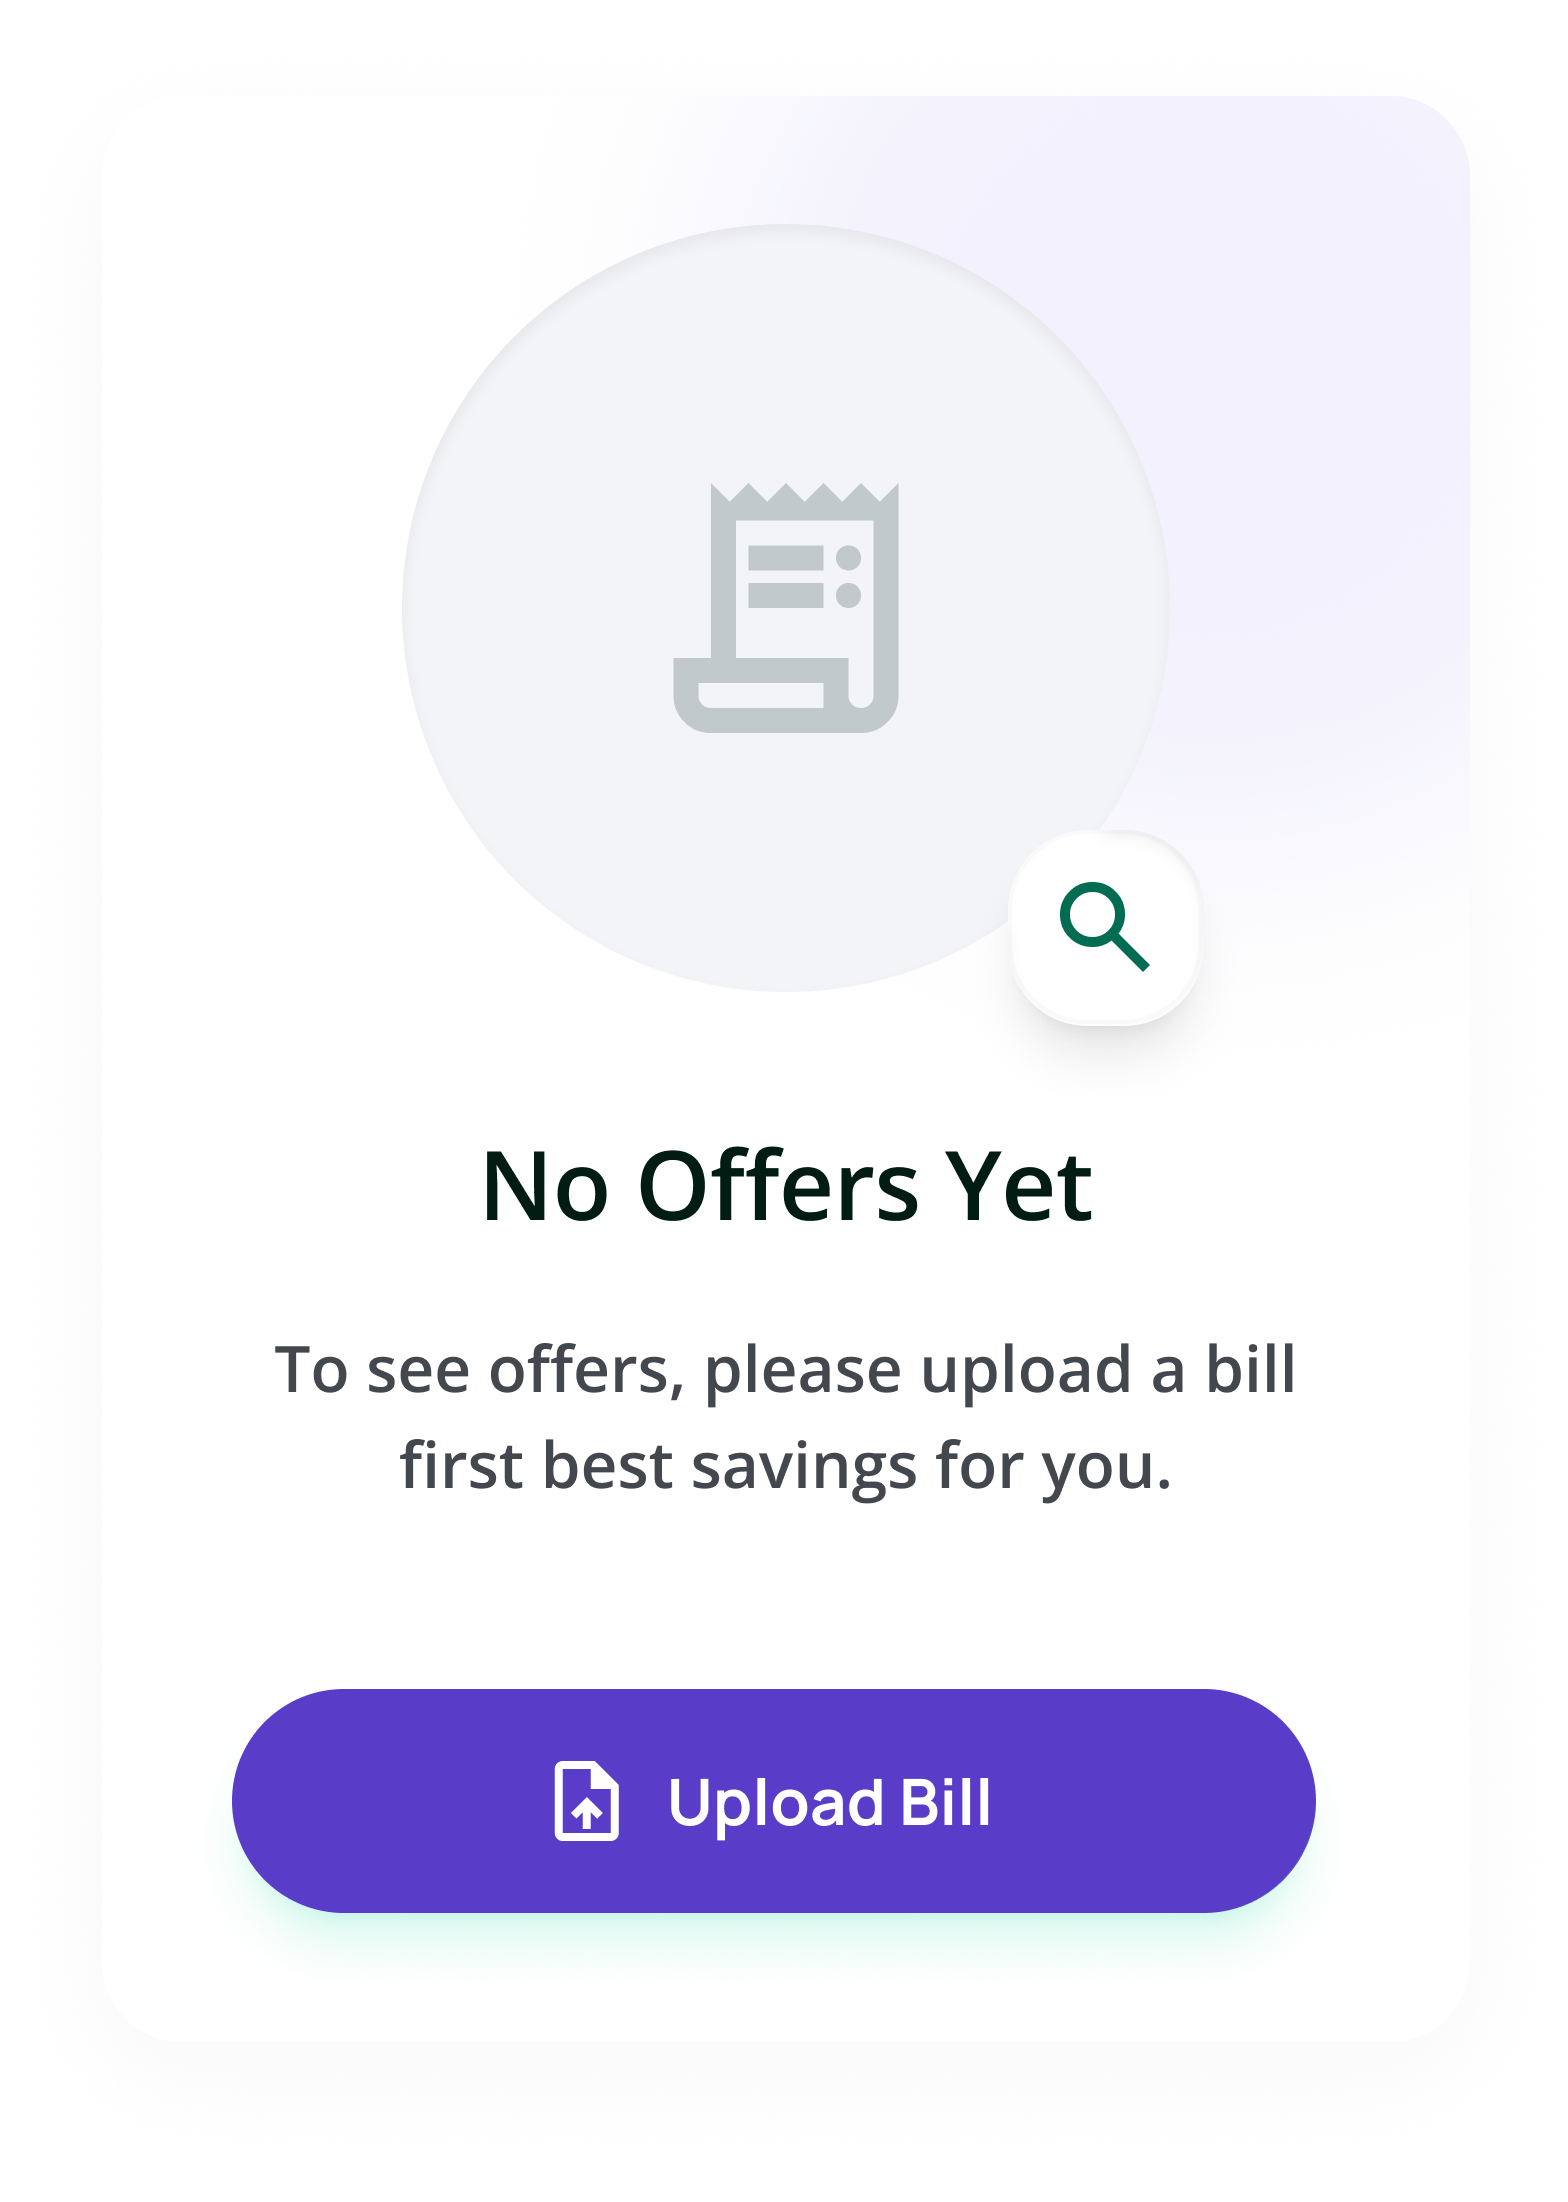
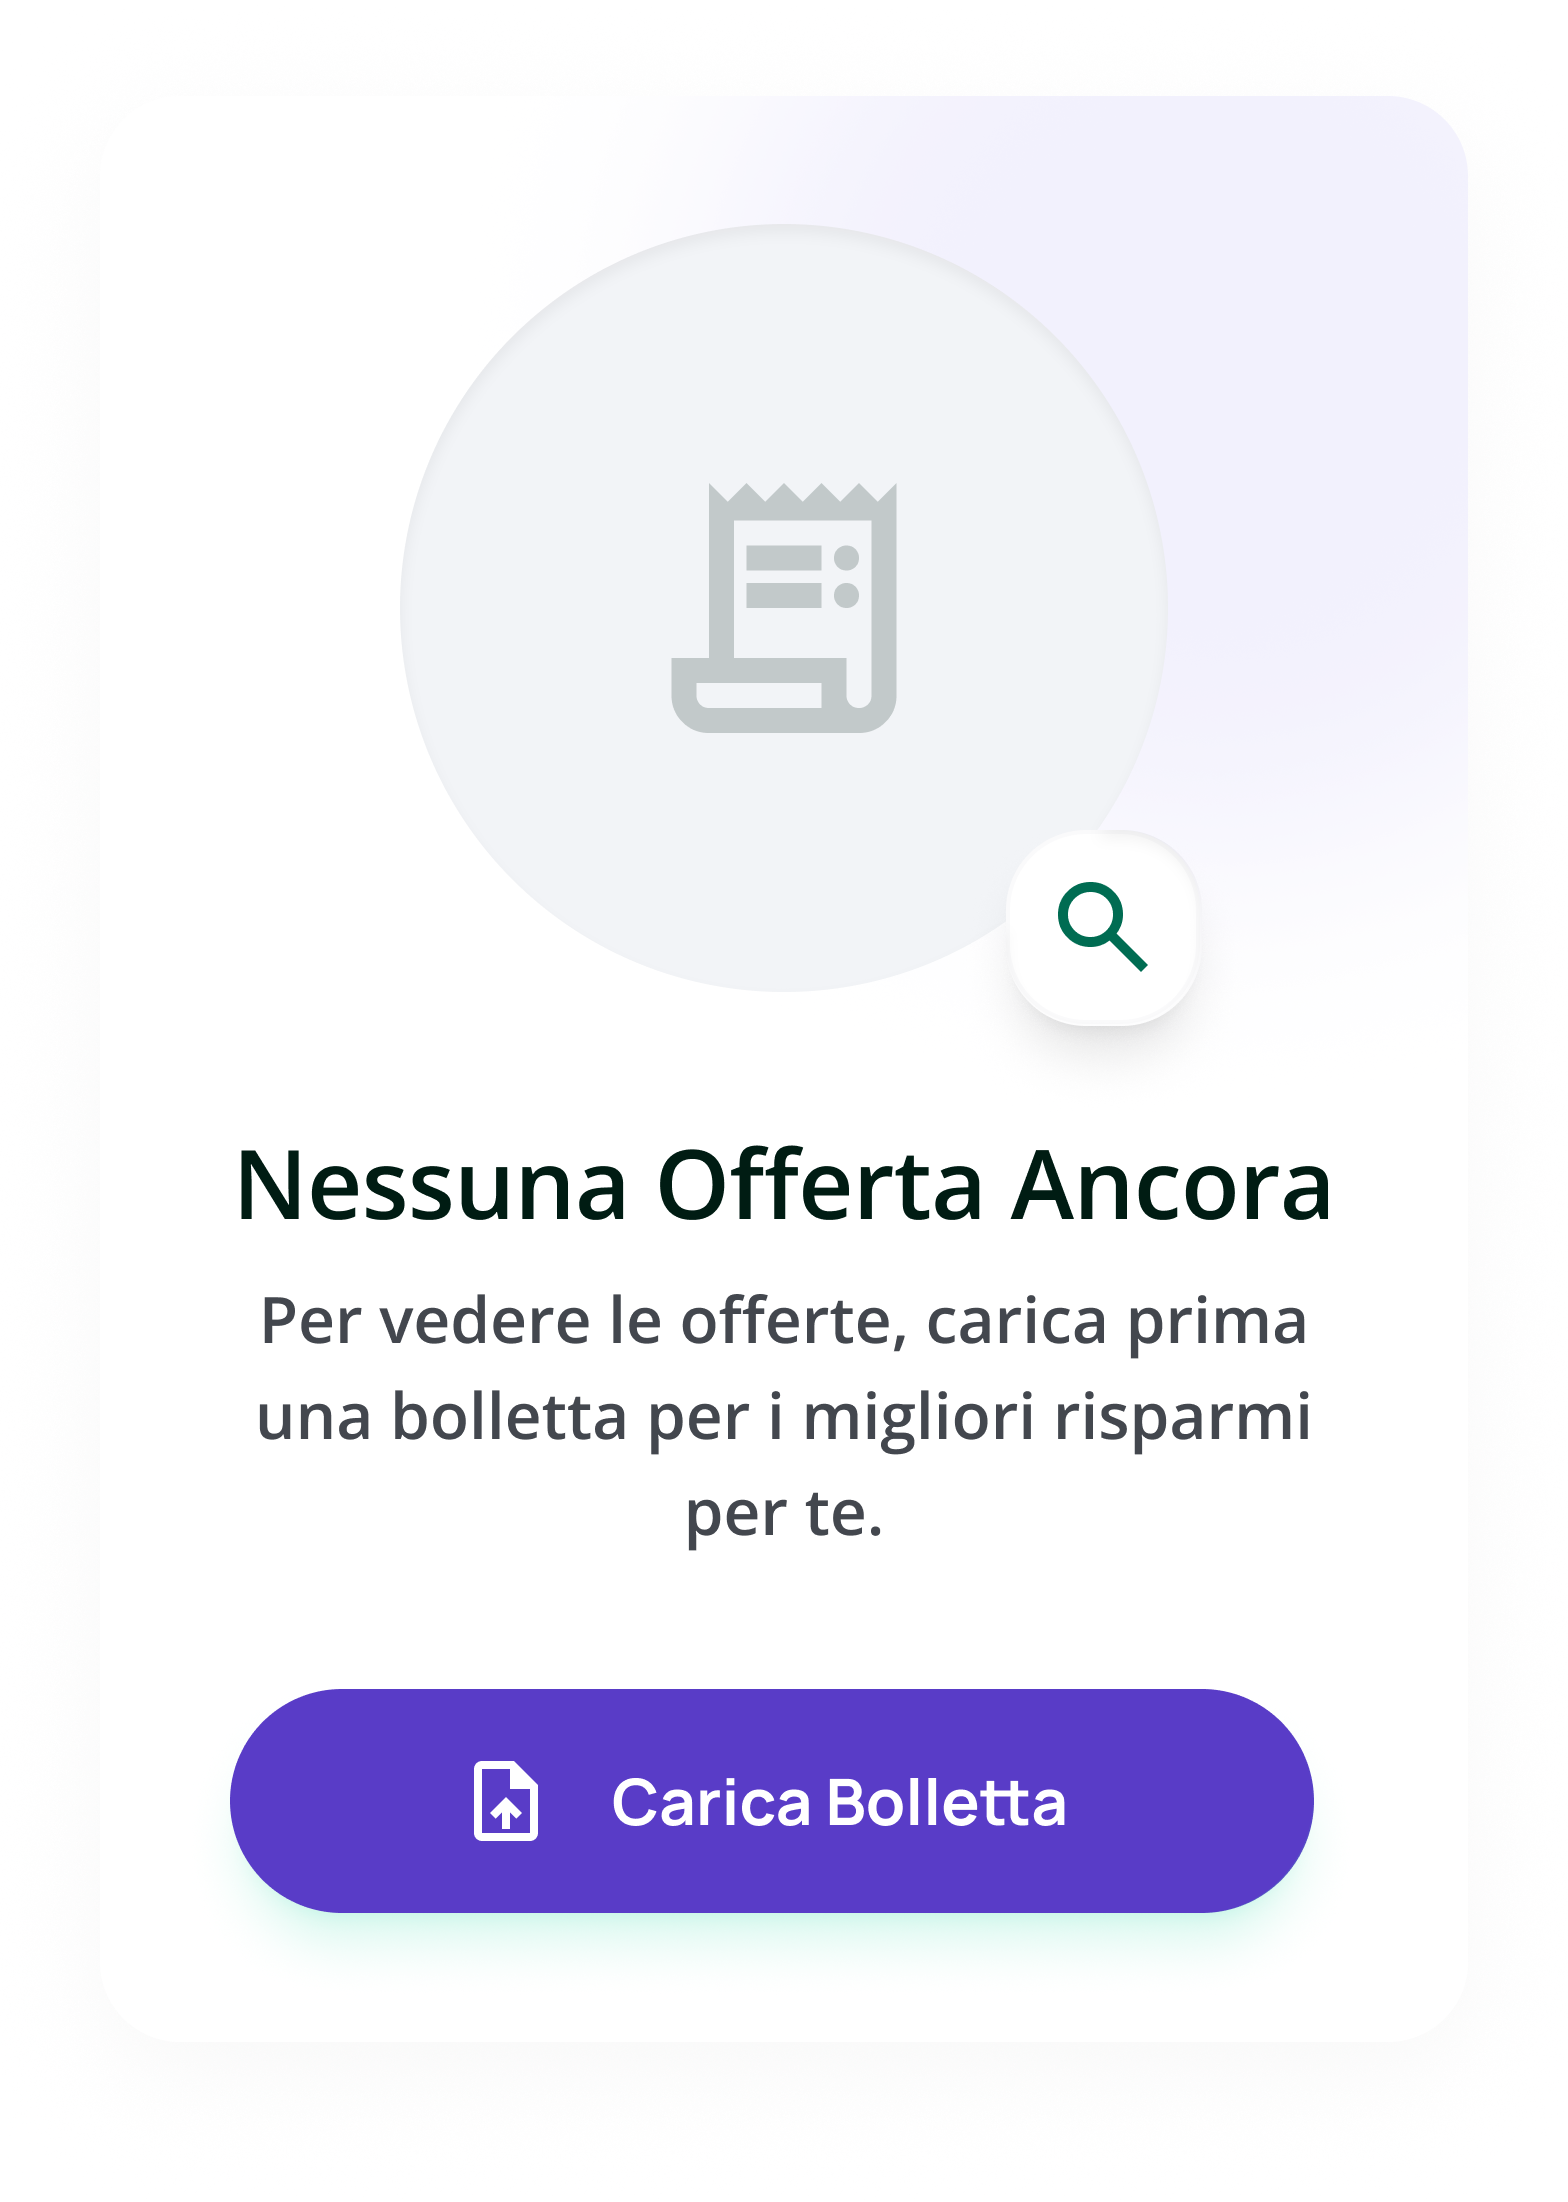
add something

diff --git a/lib/features/onboarding/warmup.dart b/lib/features/onboarding/warmup.dart
@@ -46,127 +46,136 @@ class WarmupOnboarding extends StatelessWidget {
       body: Obx(() {
         final item = data[controller.currentIndex.value];
 
-        return Column(
-          children: [
-            // TOP CURVED BACKGROUND + IMAGE
-            SizedBox(
-              height: MediaQuery.of(context).size.height * 0.50,
-              child: Stack(
-                clipBehavior: Clip.none,
-                children: [
-                  // Shifted circular background
-                  Positioned(
-                    top: -128,
-                    left: -81,
-                    child: Container(
-                      width: 555,
-                      height: 551,
-                      decoration: const BoxDecoration(
-                        color: Color(0xFFC8CCFD),
-                        shape: BoxShape.circle,
-                      ),
-                    ),
-                  ),
-
-                  // PHONE IMAGE
-                  Positioned(
-                    bottom: -208, // Pulls the image down to overlap the white background
-                    left: 0,
-                    right: 0,
-                    child: Center(
-                      child: Image.asset(
-                        item["image"]!,
-                        height: 580,
-                        fit: BoxFit.contain,
-                      ),
-                    ),
-                  ),
-                ],
-              ),
+        return SingleChildScrollView(
+          child: ConstrainedBox(
+            constraints: BoxConstraints(
+              minHeight: MediaQuery.of(context).size.height,
             ),
-
-            const SizedBox(height: 220), // Reserve space for the overlapping image part
-
-            // TEXT SECTION
-            Padding(
-              padding: const EdgeInsets.symmetric(horizontal: 24),
+            child: IntrinsicHeight(
               child: Column(
                 children: [
-                  Text(
-                    item["title"]!,
-                    textAlign: TextAlign.center,
-                    style: const TextStyle(
-                      fontSize: 20,
-                      fontWeight: FontWeight.bold,
-                      height: 1.3,
-                    ),
-                  ),
-                  const SizedBox(height: 12),
-                  Text(
-                    item["desc"]!,
-                    textAlign: TextAlign.center,
-                    style: const TextStyle(
-                      fontSize: 14,
-                      color: Colors.grey,
-                      height: 1.5,
-                    ),
-                  ),
-                ],
-              ),
-            ),
-
-            const Spacer(),
-
-            // BOTTOM INDICATOR + BUTTON
-            Padding(
-              padding: const EdgeInsets.symmetric(horizontal: 24, vertical: 30),
-              child: controller.currentIndex.value == 2
-                  ? PrimaryButton(
-                title: "Avanti",
-                onPress: () {
-                  Get.offNamed(AppRoutes.onboardScreen);
-                },
-              )
-                  : Row(
-                mainAxisAlignment: MainAxisAlignment.spaceBetween,
-                children: [
-                  // INDICATOR
-                  Row(
-                    children: List.generate(3, (index) {
-                      return Container(
-                        margin: const EdgeInsets.only(right: 6),
-                        height: 6,
-                        width: controller.currentIndex.value == index ? 20 : 6,
-                        decoration: BoxDecoration(
-                          color: controller.currentIndex.value == index
-                              ? Colors.deepPurple
-                              : Colors.grey.shade300,
-                          borderRadius: BorderRadius.circular(10),
+                  // TOP CURVED BACKGROUND + IMAGE
+                  SizedBox(
+                    height: MediaQuery.of(context).size.height * 0.50,
+                    child: Stack(
+                      clipBehavior: Clip.none,
+                      children: [
+                        // Shifted circular background
+                        Positioned(
+                          top: -128,
+                          left: -81,
+                          child: Container(
+                            width: 555,
+                            height: 551,
+                            decoration: const BoxDecoration(
+                              color: Color(0xFFC8CCFD),
+                              shape: BoxShape.circle,
+                            ),
+                          ),
                         ),
-                      );
-                    }),
+
+                        // PHONE IMAGE
+                        Positioned(
+                          bottom: -208,
+                          left: 0,
+                          right: 0,
+                          child: Center(
+                            child: Image.asset(
+                              item["image"]!,
+                              height: 580,
+                              fit: BoxFit.contain,
+                            ),
+                          ),
+                        ),
+                      ],
+                    ),
                   ),
 
-                  // NEXT BUTTON
-                  GestureDetector(
-                    onTap: controller.next,
-                    child: Container(
-                      height: 50,
-                      width: 50,
-                      decoration: const BoxDecoration(
-                        color: Colors.deepPurple,
-                        shape: BoxShape.circle,
-                      ),
-                      child: const Icon(
-                        Icons.arrow_forward,
-                        color: Colors.white,
-                      ),
+                  const SizedBox(height: 220),
+
+                  // TEXT SECTION
+                  Padding(
+                    padding: const EdgeInsets.symmetric(horizontal: 24),
+                    child: Column(
+                      children: [
+                        Text(
+                          item["title"]!,
+                          textAlign: TextAlign.center,
+                          style: const TextStyle(
+                            fontSize: 20,
+                            fontWeight: FontWeight.bold,
+                            height: 1.3,
+                          ),
+                        ),
+                        const SizedBox(height: 12),
+                        Text(
+                          item["desc"]!,
+                          textAlign: TextAlign.center,
+                          style: const TextStyle(
+                            fontSize: 14,
+                            color: Colors.grey,
+                            height: 1.5,
+                          ),
+                        ),
+                      ],
+                    ),
+                  ),
+
+                  const Spacer(),
+
+                  // BOTTOM INDICATOR + BUTTON
+                  Padding(
+                    padding: const EdgeInsets.symmetric(horizontal: 24, vertical: 30),
+                    child: controller.currentIndex.value == 2
+                        ? PrimaryButton(
+                      title: "Avanti",
+                      onPress: () {
+                        Get.offNamed(AppRoutes.onboardScreen);
+                      },
+                    )
+                        : Row(
+                      mainAxisAlignment: MainAxisAlignment.spaceBetween,
+                      children: [
+                        // INDICATOR
+                        Row(
+                          children: List.generate(3, (index) {
+                            return Container(
+                              margin: const EdgeInsets.only(right: 6),
+                              height: 6,
+                              width: controller.currentIndex.value == index ? 20 : 6,
+                              decoration: BoxDecoration(
+                                color: controller.currentIndex.value == index
+                                    ? Colors.deepPurple
+                                    : Colors.grey.shade300,
+                                borderRadius: BorderRadius.circular(10),
+                              ),
+                            );
+                          }),
+                        ),
+
+                        // NEXT BUTTON
+                        GestureDetector(
+                          onTap: controller.next,
+                          child: Container(
+                            height: 50,
+                            width: 50,
+                            decoration: const BoxDecoration(
+                              color: Colors.deepPurple,
+                              shape: BoxShape.circle,
+                            ),
+                            child: const Icon(
+                              Icons.arrow_forward,
+                              color: Colors.white,
+                            ),
+                          ),
+                        )
+                      ],
                     ),
                   )
                 ],
               ),
-            )
-          ],
+            ),
+          ),
         );
       }),
     );
